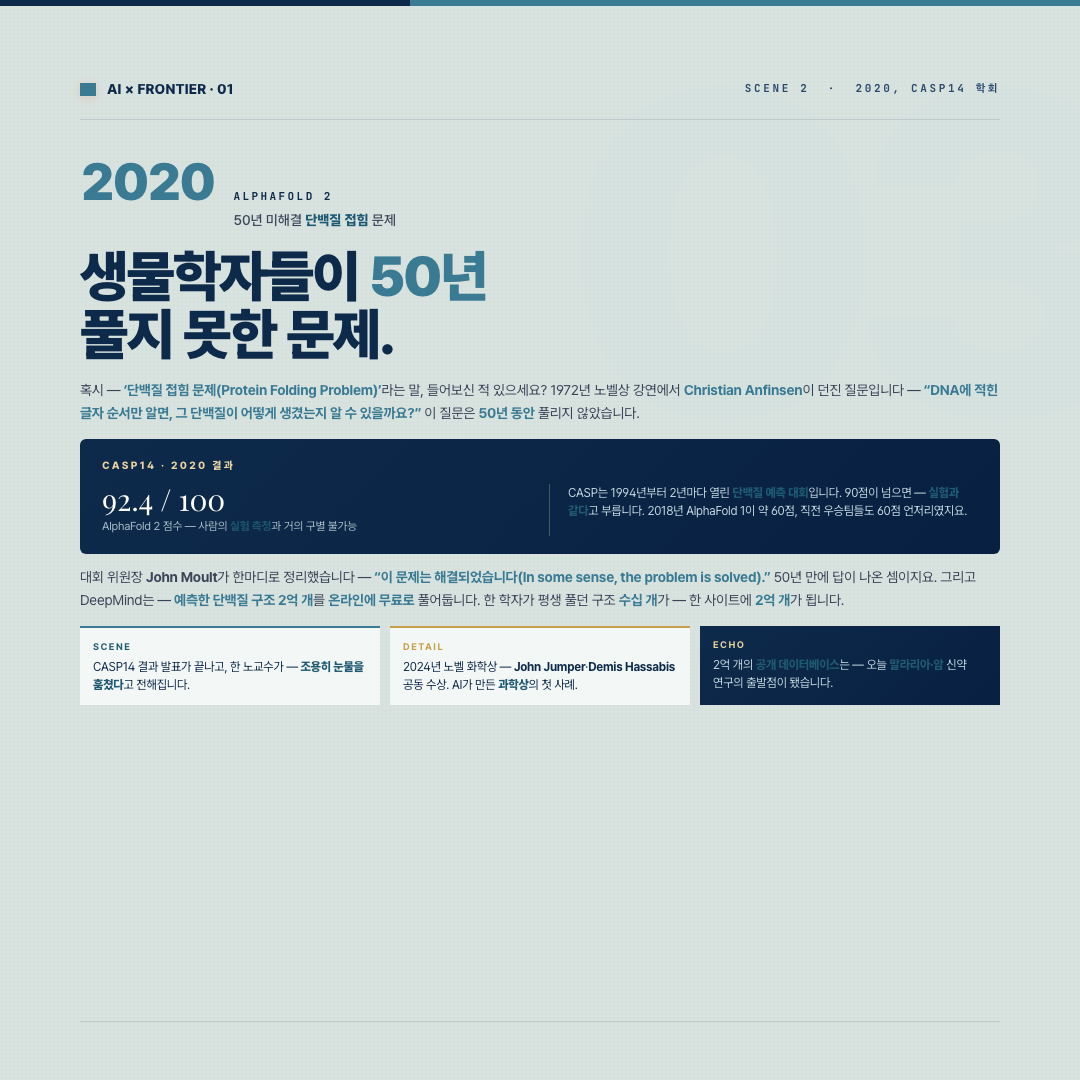
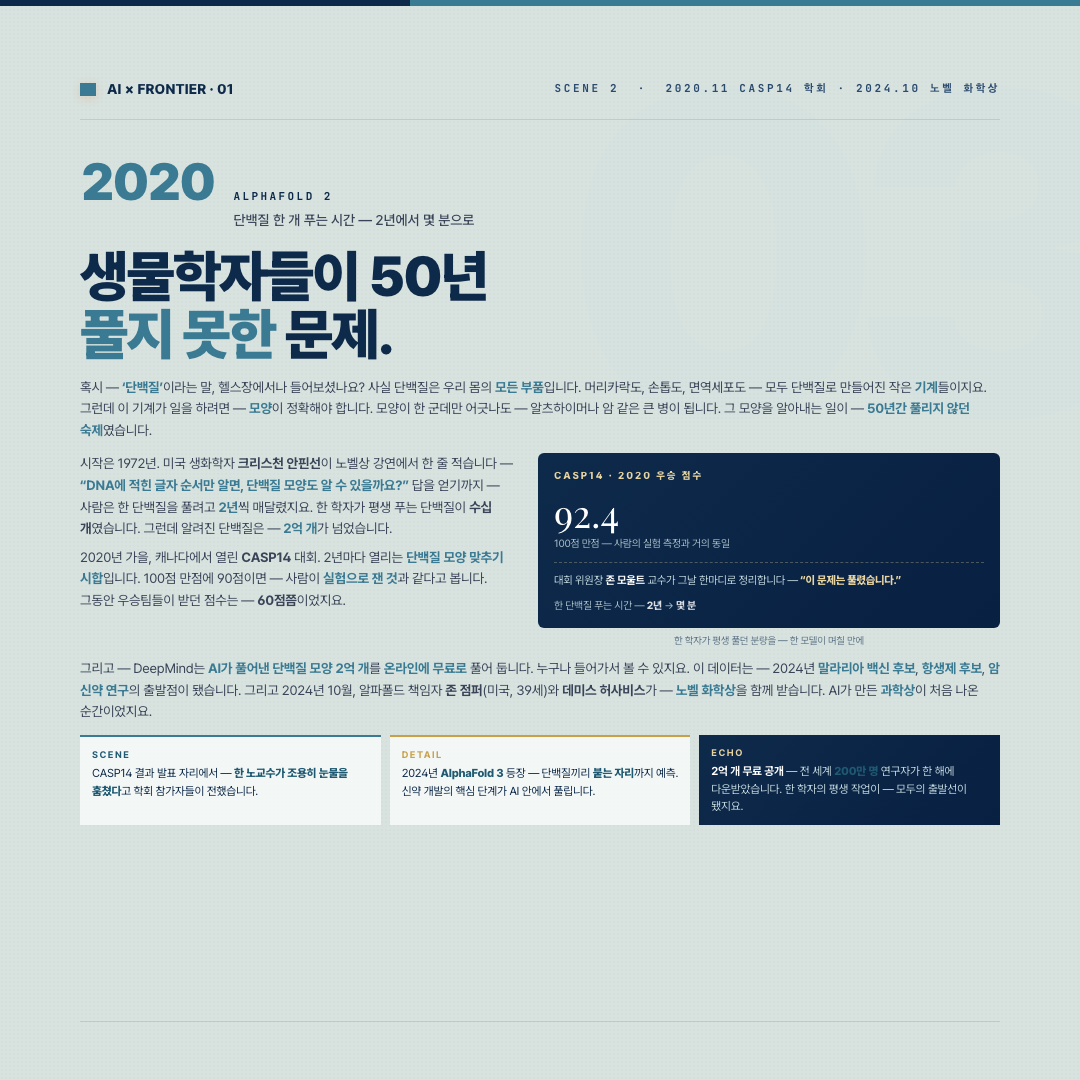
feat(book III · 01): 본문 4개 카드 자세하게 + 누구나 알기 쉽게 재작성
02 알파고 37수 — 5번기 무대(서울 광화문, 100만 달러, 2억 시청), 마이클
   레드몬드 9단의 첫 평 ('실수네요'), 알파고 자체 평가 1만분의 1, 데미스
   허사비스 배경(체스 영재 → 신경과학 박사), 이세돌 78수 4국 승리,
   2019 은퇴 인터뷰까지

03 AlphaFold — '단백질 = 우리 몸의 작은 기계' 비유로 도입, 한 단백질
   푸는 시간 2년 → 몇 분, 안핀선 1972 노벨강연 인용, CASP14 92.4점,
   존 모울트 위원장의 '풀렸습니다' 인용, 2024 노벨 화학상,
   2억 개 무료 공개, AlphaFold 3까지

04 AlphaTensor — 구구단 비유로 행렬 곱셈 풀이, 슈트라센 1969(64→49),
   2022 47번 신기록, '왜 중요한가' 박스(ChatGPT 단어 만들 때마다 수십억
   회), FunSearch 2024까지

05 Refik Anadol — 작가 배경(터키 출신 1985년생 LA), 'Unsupervised'
   8m 벽 1년 전시, 미셸 쿠오 큐레이터 인용, 13만 8천 점 = 140년 미술사,
   100만 관람·200만 달러 판매, 2024 자연사박물관 후속작

전 카드 잔여 *...* 마크다운 → <em> 변환 완료, PIL 검증 통과.

diff --git a/atlas-1-cards-creativity/04-alphatensor.html b/atlas-1-cards-creativity/04-alphatensor.html
@@ -11,53 +11,59 @@
   <div class="stage">
     <div class="header">
       <div class="brandmark"><span class="tri" style="background:var(--brand) !important;"></span> AI &times; FRONTIER &middot; 01</div>
-      <div class="chaptertag">SCENE 3 &nbsp;&middot;&nbsp; 2022.10, Nature 표지</div>
+      <div class="chaptertag">SCENE 3 &nbsp;&middot;&nbsp; 2022.10, Nature 표지 논문</div>
     </div>
     <div class="era">
       <span class="year">2022</span>
-      <span class="label"><b>AlphaTensor</b><span class="sub">DeepMind가 <em>수학</em>을 풀다</span></span>
+      <span class="label"><b>AlphaTensor</b><span class="sub">DeepMind가 수학을 푼 날 — 게임처럼</span></span>
     </div>
-    <h1 class="title sm">기계가 <em>새 곱셈법</em>을<br />발견했습니다.</h1>
+    <h1 class="title sm">기계가 발견한<br /><em>새 곱셈법</em>.</h1>
 
-    <p class="body-sm" style="font-size:14px; line-height:1.65; margin-top:14px;">
-      혹시 — <em>수학에 ‘새 정리’가 등장</em>하는 일이 <em>얼마나 드문지</em> 짐작이 가시나요? 그것도 <em>AI가 발견</em>했다면? 2022년 10월 <em>Nature</em> 표지 논문이 그것입니다. DeepMind의 <b>AlphaTensor</b>가 — <em>50년간 인간이 못 찾던</em> 새 행렬 곱셈 알고리즘을 <em>스스로</em> 찾아냈습니다.
+    <p class="body-sm" style="font-size:13.5px; line-height:1.6; margin-top:12px;">
+      혹시 — 학교에서 <em>구구단</em> 외운 거 기억나세요? 2 × 3 = 6, 한 번의 계산. 그런데 <em>행렬 곱셈</em>은 좀 다릅니다. 숫자 묶음 두 개를 곱하면 — 작은 곱셈이 <em>여러 번</em> 필요합니다. 4 × 4 묶음을 곱하려면 보통 <b>64번</b>의 곱셈이 듭니다. 그런데 1969년 — 독일 수학자 <b>폴커 슈트라센</b>이 영리한 방법으로 <em>49번</em>까지 줄였습니다. 그 뒤 <em>50년 동안</em> — 더 줄이는 사람은 <em>없었지요</em>.
     </p>
 
-    <div style="margin-top:14px; display:grid; grid-template-columns:1.2fr 1fr; gap:18px;">
+    <div class="split" style="grid-template-columns:1.2fr 1fr; gap:18px; margin-top:12px;">
       <div>
-        <p class="body-sm" style="font-size:14px; line-height:1.65;">바탕은 1969년 <b>Strassen 알고리즘</b>입니다. 4×4 행렬 곱셈을 <em>49번의 곱셈</em>으로 줄인 한 수학자의 발견. 그 뒤 <em>50년 동안</em> — 더 줄이는 방법은 <em>나오지 않았지요</em>.</p>
-        <p class="body-sm" style="font-size:14px; line-height:1.65; margin-top:8px;">AlphaTensor는 <em>수억 개의 가능성</em>을 탐색해 — <em>47번</em>으로 줄였습니다. 그것도 <em>복수의 새 알고리즘</em>을 한꺼번에. 한 <em>14살의 학생</em>이 <em>반세기 만에</em> 새 길을 보여 준 셈입니다.</p>
+        <p class="body-sm" style="font-size:13.5px; line-height:1.6;">2022년 10월, <em>Nature</em> 표지 논문이 등장합니다. DeepMind의 <b>AlphaTensor</b>가 — <em>50년간 사람이 못 찾던</em> 새 알고리즘을 스스로 찾아냈지요. 그것도 <em>복수의 새 알고리즘</em>을 한꺼번에. 5×5 행렬, 4×5 행렬 등 다양한 크기에서 — 사람이 찾던 기록을 깼습니다. 4×4 행렬은 <em>49번 → 47번</em>으로 줄였고요.</p>
+        <p class="body-sm" style="font-size:13.5px; line-height:1.6; margin-top:7px;">방법은 — 알파고와 <em>똑같은 아이디어</em>였습니다. 행렬 곱셈을 <em>게임처럼</em> 다뤄, 모든 가능한 수를 <em>수억 번</em> 탐색해 본 거지요. 알파고가 바둑판에서 한 일을 — 이번엔 <em>수학식 위</em>에서 한 셈입니다.</p>
+        <div style="margin-top:8px; padding:9px 12px; background:rgba(58,122,146,0.10); border-left:3px solid var(--brand);">
+          <div style="font-size:9.5px; letter-spacing:1.5px; color:var(--brand-deep); font-weight:700;">왜 중요한가</div>
+          <div style="font-size:11.5px; line-height:1.5; color:var(--ink-soft);">행렬 곱셈은 — <em>모든 신경망 학습의 기본 연산</em>입니다. ChatGPT가 한 단어 만들 때마다 — 행렬 곱셈을 <em>수십억 번</em> 합니다. 49번에서 47번으로 줄어든 그 <b>2번</b>이 — 전 세계 GPU의 전기·시간을 <em>눈에 띄게</em> 절약합니다.</div>
+        </div>
       </div>
-      <div style="padding:18px 20px; background:linear-gradient(135deg, var(--navy), var(--navy-deep)); color:var(--brand-soft); border-radius:6px;">
-        <div style="font-size:10.5px; letter-spacing:0.2em; color:var(--accent-gold-soft); font-weight:800;">곱셈 횟수</div>
-        <div style="margin-top:14px;">
-          <div style="font-family:'Playfair Display', serif; font-size:18px; color:#fff;">1969 Strassen</div>
-          <div style="font-family:'JetBrains Mono', monospace; font-size:30px; font-weight:900; color:#fff;">49</div>
+      <div>
+        <div style="padding:14px 16px; background:linear-gradient(135deg, var(--navy), var(--navy-deep)); color:var(--brand-soft); border-radius:6px;">
+          <div style="font-size:10px; letter-spacing:0.2em; color:var(--accent-gold-soft); font-weight:800;">곱셈 횟수 — 4×4 행렬</div>
+          <div style="margin-top:12px;">
+            <div style="font-family:'Playfair Display', serif; font-size:15px; color:#fff; opacity:0.9;">기본 학교 방식</div>
+            <div style="font-family:'JetBrains Mono', monospace; font-size:24px; font-weight:900; color:#fff; opacity:0.7;">64</div>
+          </div>
+          <div style="margin-top:10px;">
+            <div style="font-family:'Playfair Display', serif; font-size:15px; color:#fff;">1969 슈트라센</div>
+            <div style="font-family:'JetBrains Mono', monospace; font-size:28px; font-weight:900; color:#fff;">49</div>
+          </div>
+          <div style="margin-top:10px; padding-top:10px; border-top:1px dashed rgba(232,212,160,0.3);">
+            <div style="font-family:'Playfair Display', serif; font-size:15px; color:var(--accent-gold-soft); font-style:italic;">2022 AlphaTensor</div>
+            <div style="font-family:'JetBrains Mono', monospace; font-size:34px; font-weight:900; color:var(--accent-gold-soft);">47</div>
+          </div>
+          <div style="margin-top:8px; font-size:10.5px; opacity:0.85;">— 50년 만의 신기록</div>
         </div>
-        <div style="margin-top:10px; padding-top:10px; border-top:1px dashed rgba(232,212,160,0.3);">
-          <div style="font-family:'Playfair Display', serif; font-size:18px; color:var(--accent-gold-soft); font-style:italic;">2022 AlphaTensor</div>
-          <div style="font-family:'JetBrains Mono', monospace; font-size:36px; font-weight:900; color:var(--accent-gold-soft);">47</div>
-        </div>
-        <div style="margin-top:10px; font-size:11.5px; opacity:0.85;">— 50년 만의 신기록</div>
       </div>
     </div>
 
-    <p class="body-sm" style="font-size:14px; line-height:1.65; margin-top:12px; color:var(--ink-soft);">
-      <em>2</em>가 줄어든 게 <em>별것 아닌 듯</em>하지요? 그런데 행렬 곱셈은 <em>모든 신경망의 기본 연산</em>입니다. <em>2 줄임</em>이 <em>수십억 회 반복</em>되면 — 학습 비용·전력이 <em>눈에 띄게</em> 절감됩니다. AI가 <em>자기를 더 빠르게 만드는 방법</em>을 — <em>스스로 찾은</em> 셈이지요.
-    </p>
-
-    <div style="margin-top:14px; display:grid; grid-template-columns:repeat(3, 1fr); gap:10px;">
-      <div style="padding:11px 13px; background:rgba(255,255,255,0.7); border-top:2px solid var(--brand);">
+    <div style="margin-top:12px; display:grid; grid-template-columns:repeat(3, 1fr); gap:9px;">
+      <div style="padding:10px 12px; background:rgba(255,255,255,0.7); border-top:2px solid var(--brand);">
         <div style="font-size:9.5px; letter-spacing:1.5px; color:var(--brand-deep); font-weight:700;">SCENE</div>
-        <div style="font-size:12px; line-height:1.5; margin-top:4px; color:var(--ink);">방법은 <b>강화학습</b>. 행렬 곱셈을 <em>게임처럼</em> 다뤄 — 알파고와 <em>같은 아이디어</em>에서 출발했습니다.</div>
+        <div style="font-size:11.5px; line-height:1.5; margin-top:3px; color:var(--ink);">슈트라센 본인은 1936년생, 독일. <em>“내 정리는 50년이면 깨질 줄 알았다”</em>는 그의 옛 인터뷰가 — 그대로 들어맞은 셈입니다.</div>
       </div>
-      <div style="padding:11px 13px; background:rgba(255,255,255,0.7); border-top:2px solid var(--accent-gold);">
+      <div style="padding:10px 12px; background:rgba(255,255,255,0.7); border-top:2px solid var(--accent-gold);">
         <div style="font-size:9.5px; letter-spacing:1.5px; color:var(--accent-gold); font-weight:700;">DETAIL</div>
-        <div style="font-size:12px; line-height:1.5; margin-top:4px; color:var(--ink);">5×5 곱셈은 <b>76 → 76 그대로</b>. 모든 크기에서 줄이지는 못했습니다 — <em>완전한 정복</em>은 아니었지요.</div>
+        <div style="font-size:11.5px; line-height:1.5; margin-top:3px; color:var(--ink);">5×5 행렬은 <b>76번 → 76번</b> 그대로. <em>모든 크기를 다 줄이지는 못했습니다</em> — 완전한 정복은 아니었지요.</div>
       </div>
-      <div style="padding:11px 13px; background:linear-gradient(135deg, var(--navy), var(--navy-deep)); color:var(--brand-soft);">
+      <div style="padding:10px 12px; background:linear-gradient(135deg, var(--navy), var(--navy-deep)); color:var(--brand-soft);">
         <div style="font-size:9.5px; letter-spacing:1.5px; color:var(--accent-gold-soft); font-weight:700;">ECHO</div>
-        <div style="font-size:12px; line-height:1.5; margin-top:4px;">2024년 — DeepMind <b style="color:#fff;">FunSearch</b>가 <em>수학자도 못 풀던</em> 조합론 문제까지 풉니다.</div>
+        <div style="font-size:11.5px; line-height:1.5; margin-top:3px;">2024년 — DeepMind <b style="color:#fff;">FunSearch</b>가 <em>수학자도 못 풀던</em> 조합론 문제까지 풉니다. AI가 <em>수학 자체</em>를 푸는 시대로.</div>
       </div>
     </div>
 

diff --git a/atlas-1-cards-creativity/03-alphafold.html b/atlas-1-cards-creativity/03-alphafold.html
@@ -1,7 +1,7 @@
 <!DOCTYPE html>
 <html lang="ko"><head><meta charset="UTF-8" />
 <meta name="color-scheme" content="light only" />
-<title>03 · AlphaFold — 50년 미해결 문제의 답</title>
+<title>03 · AlphaFold — 50년 미해결 단백질 문제의 답</title>
 <link rel="stylesheet" href="https://fonts.googleapis.com/css2?family=JetBrains+Mono:wght@400;500;700&family=Playfair+Display:ital,wght@0,400;0,700;1,400&family=Noto+Serif+KR:wght@400;700;900&family=Noto+Sans+KR:wght@300;400;500;700;900&display=swap" />
 <link rel="stylesheet" href="../style.css" />
 <link rel="stylesheet" href="../atlas.css" /></head>
@@ -11,47 +11,53 @@
   <div class="stage">
     <div class="header">
       <div class="brandmark"><span class="tri" style="background:var(--brand) !important;"></span> AI &times; FRONTIER &middot; 01</div>
-      <div class="chaptertag">SCENE 2 &nbsp;&middot;&nbsp; 2020, CASP14 학회</div>
+      <div class="chaptertag">SCENE 2 &nbsp;&middot;&nbsp; 2020.11 CASP14 학회 · 2024.10 노벨 화학상</div>
     </div>
     <div class="era">
       <span class="year">2020</span>
-      <span class="label"><b>AlphaFold 2</b><span class="sub">50년 미해결 <em>단백질 접힘</em> 문제</span></span>
+      <span class="label"><b>AlphaFold 2</b><span class="sub">단백질 한 개 푸는 시간 — 2년에서 몇 분으로</span></span>
     </div>
-    <h1 class="title sm">생물학자들이 <em>50년</em><br />풀지 못한 문제.</h1>
+    <h1 class="title sm">생물학자들이 50년<br /><em>풀지 못한</em> 문제.</h1>
 
-    <p class="body-sm" style="font-size:14px; line-height:1.65; margin-top:14px;">
-      혹시 — <em>‘단백질 접힘 문제(Protein Folding Problem)’</em>라는 말, 들어보신 적 있으세요? 1972년 노벨상 강연에서 <em>Christian Anfinsen</em>이 던진 질문입니다 — <em>“DNA에 적힌 글자 순서만 알면, 그 단백질이 어떻게 생겼는지 알 수 있을까요?”</em> 이 질문은 <em>50년 동안</em> 풀리지 않았습니다.
+    <p class="body-sm" style="font-size:13.5px; line-height:1.6; margin-top:12px;">
+      혹시 — <em>‘단백질’</em>이라는 말, 헬스장에서나 들어보셨나요? 사실 단백질은 우리 몸의 <em>모든 부품</em>입니다. 머리카락도, 손톱도, 면역세포도 — 모두 단백질로 만들어진 작은 <em>기계</em>들이지요. 그런데 이 기계가 일을 하려면 — <em>모양</em>이 정확해야 합니다. 모양이 한 군데만 어긋나도 — 알츠하이머나 암 같은 큰 병이 됩니다. 그 모양을 알아내는 일이 — <em>50년간 풀리지 않던 숙제</em>였습니다.
     </p>
 
-    <div style="margin-top:14px; padding:18px 22px; background:linear-gradient(135deg, var(--navy), var(--navy-deep)); color:var(--brand-soft); border-radius:6px;">
-      <div style="font-size:10.5px; letter-spacing:0.22em; color:var(--accent-gold-soft); font-weight:800;">CASP14 &middot; 2020 결과</div>
-      <div style="margin-top:10px; display:grid; grid-template-columns:1fr 1fr; gap:18px; font-size:13.5px; line-height:1.55;">
-        <div>
-          <div style="font-family:'Playfair Display', serif; font-style:italic; font-size:30px; color:#fff; line-height:1;">92.4 / 100</div>
-          <div style="font-size:11.5px; opacity:0.85; margin-top:4px;">AlphaFold 2 점수 — 사람의 <em>실험 측정</em>과 거의 구별 불가능</div>
+    <div class="split" style="grid-template-columns:1fr 1.05fr; gap:18px; margin-top:12px;">
+      <div class="left">
+        <p class="body-sm" style="font-size:13.5px; line-height:1.6;">시작은 1972년. 미국 생화학자 <b>크리스천 안핀선</b>이 노벨상 강연에서 한 줄 적습니다 — <em>“DNA에 적힌 글자 순서만 알면, 단백질 모양도 알 수 있을까요?”</em> 답을 얻기까지 — 사람은 한 단백질을 풀려고 <em>2년</em>씩 매달렸지요. 한 학자가 평생 푸는 단백질이 <b>수십 개</b>였습니다. 그런데 알려진 단백질은 — <em>2억 개</em>가 넘었습니다.</p>
+        <p class="body-sm" style="font-size:13.5px; line-height:1.6; margin-top:7px;">2020년 가을, 캐나다에서 열린 <b>CASP14</b> 대회. 2년마다 열리는 <em>단백질 모양 맞추기 시합</em>입니다. 100점 만점에 90점이면 — 사람이 <em>실험으로 잰 것</em>과 같다고 봅니다. 그동안 우승팀들이 받던 점수는 — <b>60점쯤</b>이었지요.</p>
+      </div>
+      <div class="right">
+        <div style="padding:14px 16px; background:linear-gradient(135deg, var(--navy), var(--navy-deep)); color:var(--brand-soft); border-radius:6px;">
+          <div style="font-size:10px; letter-spacing:0.2em; color:var(--accent-gold-soft); font-weight:800;">CASP14 · 2020 우승 점수</div>
+          <div style="margin-top:10px; font-family:'Playfair Display', serif; font-style:italic; font-size:38px; color:#fff; line-height:1;">92.4</div>
+          <div style="font-size:10.5px; opacity:0.85; margin-top:3px;">100점 만점 — 사람의 실험 측정과 거의 동일</div>
+          <div style="margin-top:10px; padding-top:10px; border-top:1px dashed rgba(232,212,160,0.3);">
+            <div style="font-size:11px; line-height:1.5;">대회 위원장 <b style="color:#fff;">존 모울트</b> 교수가 그날 한마디로 정리합니다 — <em style="color:var(--accent-gold-soft);">“이 문제는 풀렸습니다.”</em></div>
+          </div>
+          <div style="margin-top:8px; font-size:10.5px; opacity:0.85;">한 단백질 푸는 시간 — <em style="color:#fff;">2년</em> → <b style="color:#fff;">몇 분</b></div>
         </div>
-        <div style="border-left:1px solid rgba(232,212,160,0.3); padding-left:18px;">
-          <div style="font-size:12px;">CASP는 1994년부터 2년마다 열린 <em>단백질 예측 대회</em>입니다. 90점이 넘으면 — <em>실험과 같다</em>고 부릅니다. 2018년 AlphaFold 1이 약 60점, 직전 우승팀들도 60점 언저리였지요.</div>
-        </div>
+        <p style="font-size:10px; margin-top:4px; opacity:0.6; text-align:center;">한 학자가 평생 풀던 분량을 — 한 모델이 며칠 만에</p>
       </div>
     </div>
 
-    <p class="body-sm" style="font-size:14px; line-height:1.65; margin-top:12px;">
-      대회 위원장 <b>John Moult</b>가 한마디로 정리했습니다 — <em>“이 문제는 해결되었습니다(In some sense, the problem is solved).”</em> 50년 만에 답이 나온 셈이지요. 그리고 DeepMind는 — <em>예측한 단백질 구조 2억 개</em>를 <em>온라인에 무료로</em> 풀어둡니다. 한 학자가 평생 풀던 구조 <em>수십 개</em>가 — 한 사이트에 <em>2억 개</em>가 됩니다.
+    <p class="body-sm" style="font-size:13.5px; line-height:1.6; margin-top:10px;">
+      그리고 — DeepMind는 <em>AI가 풀어낸 단백질 모양 2억 개</em>를 <em>온라인에 무료로</em> 풀어 둡니다. 누구나 들어가서 볼 수 있지요. 이 데이터는 — 2024년 <em>말라리아 백신 후보</em>, <em>항생제 후보</em>, <em>암 신약 연구</em>의 출발점이 됐습니다. 그리고 2024년 10월, 알파폴드 책임자 <b>존 점퍼</b>(미국, 39세)와 <b>데미스 허사비스</b>가 — <em>노벨 화학상</em>을 함께 받습니다. AI가 만든 <em>과학상</em>이 처음 나온 순간이었지요.
     </p>
 
-    <div style="margin-top:14px; display:grid; grid-template-columns:repeat(3, 1fr); gap:10px;">
-      <div style="padding:11px 13px; background:rgba(255,255,255,0.7); border-top:2px solid var(--brand);">
+    <div style="margin-top:12px; display:grid; grid-template-columns:repeat(3, 1fr); gap:9px;">
+      <div style="padding:10px 12px; background:rgba(255,255,255,0.7); border-top:2px solid var(--brand);">
         <div style="font-size:9.5px; letter-spacing:1.5px; color:var(--brand-deep); font-weight:700;">SCENE</div>
-        <div style="font-size:12px; line-height:1.5; margin-top:4px; color:var(--ink);">CASP14 결과 발표가 끝나고, 한 노교수가 — <em>조용히 눈물을 훔쳤다</em>고 전해집니다.</div>
+        <div style="font-size:11.5px; line-height:1.5; margin-top:3px; color:var(--ink);">CASP14 결과 발표 자리에서 — <em>한 노교수가 조용히 눈물을 훔쳤다</em>고 학회 참가자들이 전했습니다.</div>
       </div>
-      <div style="padding:11px 13px; background:rgba(255,255,255,0.7); border-top:2px solid var(--accent-gold);">
+      <div style="padding:10px 12px; background:rgba(255,255,255,0.7); border-top:2px solid var(--accent-gold);">
         <div style="font-size:9.5px; letter-spacing:1.5px; color:var(--accent-gold); font-weight:700;">DETAIL</div>
-        <div style="font-size:12px; line-height:1.5; margin-top:4px; color:var(--ink);">2024년 노벨 화학상 — <b>John Jumper</b>·<b>Demis Hassabis</b> 공동 수상. AI가 만든 <em>과학상</em>의 첫 사례.</div>
+        <div style="font-size:11.5px; line-height:1.5; margin-top:3px; color:var(--ink);">2024년 <em>AlphaFold 3</em> 등장 — 단백질끼리 <em>붙는 자리</em>까지 예측. 신약 개발의 핵심 단계가 AI 안에서 풀립니다.</div>
       </div>
-      <div style="padding:11px 13px; background:linear-gradient(135deg, var(--navy), var(--navy-deep)); color:var(--brand-soft);">
+      <div style="padding:10px 12px; background:linear-gradient(135deg, var(--navy), var(--navy-deep)); color:var(--brand-soft);">
         <div style="font-size:9.5px; letter-spacing:1.5px; color:var(--accent-gold-soft); font-weight:700;">ECHO</div>
-        <div style="font-size:12px; line-height:1.5; margin-top:4px;">2억 개의 <em>공개 데이터베이스</em>는 — 오늘 <em>말라리아·암</em> 신약 연구의 출발점이 됐습니다.</div>
+        <div style="font-size:11.5px; line-height:1.5; margin-top:3px;"><b style="color:#fff;">2억 개 무료 공개</b> — 전 세계 <em>200만 명</em> 연구자가 한 해에 다운받았습니다. 한 학자의 평생 작업이 — 모두의 출발선이 됐지요.</div>
       </div>
     </div>
 

diff --git a/atlas-1-cards-creativity/02-alphago.html b/atlas-1-cards-creativity/02-alphago.html
@@ -1,7 +1,7 @@
 <!DOCTYPE html>
 <html lang="ko"><head><meta charset="UTF-8" />
 <meta name="color-scheme" content="light only" />
-<title>02 · 알파고 37수 — 사람이 못 보던 자리</title>
+<title>02 · 알파고 37수 — 사람이 만 판에 한 번 둘 자리</title>
 <link rel="stylesheet" href="https://fonts.googleapis.com/css2?family=JetBrains+Mono:wght@400;500;700&family=Playfair+Display:ital,wght@0,400;0,700;1,400&family=Noto+Serif+KR:wght@400;700;900&family=Noto+Sans+KR:wght@300;400;500;700;900&display=swap" />
 <link rel="stylesheet" href="../style.css" />
 <link rel="stylesheet" href="../atlas.css" /></head>
@@ -11,45 +11,49 @@
   <div class="stage">
     <div class="header">
       <div class="brandmark"><span class="tri" style="background:var(--brand) !important;"></span> AI &times; FRONTIER &middot; 01</div>
-      <div class="chaptertag">SCENE 1 &nbsp;&middot;&nbsp; 2016.3.10, 서울 포시즌스 호텔</div>
+      <div class="chaptertag">SCENE 1 &nbsp;&middot;&nbsp; 2016.3.10, 서울 광화문 포시즌스 호텔</div>
     </div>
     <div class="era">
       <span class="year">2016</span>
-      <span class="label"><b>알파고 37수</b><span class="sub">바둑의 <em>신</em>이 처음 본 자리</span></span>
+      <span class="label"><b>알파고 37수</b><span class="sub">2국 · 오후 4시 반 · 다섯 번째 줄에 놓인 흑돌 하나</span></span>
     </div>
-    <h1 class="title sm">사람이 <em>만 판에 한 번</em><br />놓을까 말까 한 자리.</h1>
+    <h1 class="title sm">사람이 만 판에 한 번 놓을<br /><em>한 수</em>가 등장합니다.</h1>
 
-    <div class="split" style="grid-template-columns:1fr 1fr; gap:22px; margin-top:14px;">
+    <div class="split" style="grid-template-columns:1fr 1fr; gap:20px; margin-top:12px;">
       <div class="left">
-        <p class="body-sm" style="font-size:14px; line-height:1.65;">혹시 — <em>알파고와 이세돌의 5번기</em>에서 가장 <em>기이했던 한 수</em>를 기억하세요? 2016년 3월 10일, 2국 후반. 알파고가 <em>흑 5선</em>에 한 수를 놓습니다. 해설진은 처음에 — <em>“실수네요”</em>라고 했지요. 프로 기사들은 <em>“만 판에 한 번 나올까 말까 한 자리”</em>라고 했습니다.</p>
-        <p class="body-sm" style="font-size:14px; line-height:1.65; margin-top:8px;">그런데 — 그 한 수가 <em>판세를 결정짓는 자리</em>로 드러납니다. 이 한 수에 사람들은 한 가지 이름을 붙입니다 — <b>‘37수’</b>. AI가 <em>사람이 본 적 없는</em> 풍경을 처음 보여 준 순간이었지요.</p>
-        <div style="margin-top:10px; padding:9px 12px; background:rgba(58,122,146,0.10); border-left:3px solid var(--brand);">
-          <div style="font-size:9.5px; letter-spacing:1.5px; color:var(--brand-deep); font-weight:700;">DeepMind 발표</div>
-          <div style="font-size:12px; line-height:1.5; color:var(--ink-soft);">DeepMind가 이 한 수의 <em>예상 확률</em>을 <b>1만분의 1</b>이라고 적었습니다. ‘인간 기보 학습’ 단계가 <em>예측하지 못한</em> 자리.</div>
+        <p class="body-sm" style="font-size:13.5px; line-height:1.6;">혹시 — <em>알파고와 이세돌의 5번기</em>에서 가장 <em>이상했던 한 수</em>를 기억하세요? 2016년 3월 10일 오후, 서울 광화문 포시즌스 호텔. 5판 중 두 번째 대국이 한창이었습니다. 우승 상금은 <b>100만 달러(약 12억 원)</b>, 전 세계 시청자는 <em>2억 명</em>. 그날 알파고가 둔 <b>37번째 수</b>가 — 바둑 역사에 한 줄로 박힙니다.</p>
+        <p class="body-sm" style="font-size:13.5px; line-height:1.6; margin-top:7px;">자리는 <em>다섯 번째 줄</em>의 흑돌 하나. 해설진 <b>마이클 레드몬드 9단</b>이 처음 본 순간 — <em>“실수네요”</em>라고 했지요. 보통 <em>아마추어 1단도 잘 두지 않는 자리</em>였거든요. 그런데 게임이 끝나갈 무렵 — 그 한 수가 <em>판 전체를 지배하는 자리</em>가 되어 있었습니다.</p>
+        <div style="margin-top:8px; padding:8px 11px; background:rgba(58,122,146,0.10); border-left:3px solid var(--brand);">
+          <div style="font-size:9.5px; letter-spacing:1.5px; color:var(--brand-deep); font-weight:700;">알파고 자체 평가</div>
+          <div style="font-size:11.5px; line-height:1.5; color:var(--ink-soft);">알파고는 <em>“사람 프로 기사가 이 자리에 둘 확률은 만 분의 1”</em>이라고 자신의 점수표에 적어 놓았습니다. <em>스스로</em>가 인간이라면 안 둘 자리라고 본 셈입니다.</div>
         </div>
       </div>
       <div class="right">
-        <img src="../images/lee-sedol.jpg" style="width:100%; height:280px; object-fit:cover; object-position:center top; border-radius:6px; filter:saturate(0.85);" alt="이세돌 9단" />
-        <p style="font-size:10px; margin-top:4px; opacity:0.6; text-align:center;">이세돌 9단 · 2016 5번기</p>
+        <img src="../images/lee-sedol.jpg" style="width:100%; height:240px; object-fit:cover; object-position:center top; border-radius:6px; filter:saturate(0.85);" alt="이세돌 9단" />
+        <p style="font-size:10px; margin-top:3px; opacity:0.6; text-align:center;">이세돌 9단 · 2016 5번기 · 당시 33세</p>
+        <div style="margin-top:8px; padding:9px 11px; background:linear-gradient(135deg, var(--navy), var(--navy-deep)); color:var(--brand-soft); border-radius:4px;">
+          <div style="font-size:9.5px; letter-spacing:1.5px; color:var(--accent-gold-soft); font-weight:700;">이세돌 — 4국 후 인터뷰</div>
+          <div style="font-size:11.5px; line-height:1.45; margin-top:3px; color:#fff;">“오늘은 <em>이세돌</em>이 알파고를 이긴 게 아니라, <em style="color:var(--accent-gold-soft);">사람</em>이 이긴 겁니다.”</div>
+        </div>
       </div>
     </div>
 
-    <p class="body-sm" style="font-size:14px; line-height:1.6; margin-top:12px; color:var(--ink-soft);">
-      그러나 <em>그 한 수</em>가 등장하기까지 — 데미스 허사비스가 던진 <em>“바둑은 풀 수 있는 게임인가”</em>라는 질문이 있었고, 인간 기보 16만 판이 있었으며, 마지막엔 <b>이세돌</b>이라는 무대 위 사람이 있었습니다. <em>AI가 새 길을 보여 준 자리</em>에는 — <em>그것을 알아본 사람</em>이 함께 있었지요.
+    <p class="body-sm" style="font-size:13.5px; line-height:1.6; margin-top:10px;">
+      이 한 수가 등장하기까지 — 한 사람의 <em>큰 질문</em>이 있었습니다. 알파고를 만든 <b>데미스 허사비스</b>(영국, 당시 39세)는 <em>어릴 때 체스 영재</em>였고, 신경과학 박사이자 게임 디자이너이기도 했지요. 그가 던진 질문은 단순했습니다 — <em>“바둑은 정말 풀 수 없는 게임일까?”</em> 그 질문이 — 이세돌이라는 <em>인간 챔피언</em>과 만나는 무대를 만들었습니다.
     </p>
 
-    <div style="margin-top:16px; display:grid; grid-template-columns:repeat(3, 1fr); gap:10px;">
-      <div style="padding:11px 13px; background:rgba(255,255,255,0.7); border-top:2px solid var(--brand);">
+    <div style="margin-top:12px; display:grid; grid-template-columns:repeat(3, 1fr); gap:9px;">
+      <div style="padding:10px 12px; background:rgba(255,255,255,0.7); border-top:2px solid var(--brand);">
         <div style="font-size:9.5px; letter-spacing:1.5px; color:var(--brand-deep); font-weight:700;">SCENE</div>
-        <div style="font-size:12px; line-height:1.5; margin-top:4px; color:var(--ink);">알파고는 <b>5국 중 4국</b>을 가져갑니다. 그러나 <em>제4국</em>은 — 이세돌이 가져갔지요.</div>
+        <div style="font-size:11.5px; line-height:1.5; margin-top:3px; color:var(--ink);">최종 결과 — 알파고 <b>4승 1패</b>. 이세돌이 가져간 한 판은 <em>4국</em>이었습니다 (그의 <b>78수</b>, 일명 <em>‘신의 한 수’</em>).</div>
       </div>
-      <div style="padding:11px 13px; background:rgba(255,255,255,0.7); border-top:2px solid var(--accent-gold);">
+      <div style="padding:10px 12px; background:rgba(255,255,255,0.7); border-top:2px solid var(--accent-gold);">
         <div style="font-size:9.5px; letter-spacing:1.5px; color:var(--accent-gold); font-weight:700;">DETAIL</div>
-        <div style="font-size:12px; line-height:1.5; margin-top:4px; color:var(--ink);">알파고가 학습한 인간 기보 — <b>16만 판</b>. 그 위에 자기 자신과의 <em>수억 판</em> 대국이 더 쌓였습니다.</div>
+        <div style="font-size:11.5px; line-height:1.5; margin-top:3px; color:var(--ink);">알파고가 공부한 인간 기보 — <b>16만 판</b>. 그 위에 <em>자기 자신과의 대국 수억 판</em>이 더 쌓였습니다. 사람이 평생 못 둘 양입니다.</div>
       </div>
-      <div style="padding:11px 13px; background:linear-gradient(135deg, var(--navy), var(--navy-deep)); color:var(--brand-soft);">
+      <div style="padding:10px 12px; background:linear-gradient(135deg, var(--navy), var(--navy-deep)); color:var(--brand-soft);">
         <div style="font-size:9.5px; letter-spacing:1.5px; color:var(--accent-gold-soft); font-weight:700;">ECHO</div>
-        <div style="font-size:12px; line-height:1.5; margin-top:4px;">이세돌의 <b style="color:#fff;">‘신의 한 수(78수)’</b>도 같은 시리즈에서 나왔습니다 — <em>사람도</em> 새 자리를 봅니다.</div>
+        <div style="font-size:11.5px; line-height:1.5; margin-top:3px;">2019년 이세돌이 은퇴 인터뷰에서 한마디 — <em style="color:#fff;">“AI는 이길 수 있는 상대가 아닙니다.”</em> 한 시대가 — 한 인터뷰로 마무리됩니다.</div>
       </div>
     </div>
 

diff --git a/atlas-1-cards-creativity/05-anadol.html b/atlas-1-cards-creativity/05-anadol.html
@@ -11,44 +11,48 @@
   <div class="stage">
     <div class="header">
       <div class="brandmark"><span class="tri" style="background:var(--brand) !important;"></span> AI &times; FRONTIER &middot; 01</div>
-      <div class="chaptertag">SCENE 4 &nbsp;&middot;&nbsp; 2022.11, MoMA · 뉴욕</div>
+      <div class="chaptertag">SCENE 4 &nbsp;&middot;&nbsp; 2022.11.19—2023.10, MoMA · 뉴욕 5번가</div>
     </div>
     <div class="era">
       <span class="year">2022</span>
-      <span class="label"><b>Refik Anadol · Unsupervised</b><span class="sub">미술관에 걸린 <em>AI 회화</em></span></span>
+      <span class="label"><b>Refik Anadol · Unsupervised</b><span class="sub">미술관 8m 벽이 스스로 그림을 짜내는 1년</span></span>
     </div>
-    <h1 class="title sm">미술관 벽이 <em>스스로</em><br />꿈을 꾸기 시작합니다.</h1>
+    <h1 class="title sm">미술관 벽이 스스로<br /><em>꿈</em>을 꾸기 시작합니다.</h1>
 
-    <div class="split" style="grid-template-columns:1fr 1fr; gap:22px; margin-top:14px;">
+    <div class="split" style="grid-template-columns:1fr 1fr; gap:18px; margin-top:12px;">
       <div class="left">
-        <p class="body-sm" style="font-size:14px; line-height:1.65;">혹시 — <em>MoMA(뉴욕 현대미술관) 로비에 </em>AI 그림<em>이 걸린 적이 있다</em>는 거 아세요? 그것도 <em>2022년 11월</em>부터 <em>6개월간</em>. 작품 이름은 <b>Unsupervised</b>. 8m 높이의 LED 벽에서 — <em>한 번도 같은 모습을 보이지 않는</em> 추상화가 펼쳐집니다.</p>
-        <p class="body-sm" style="font-size:14px; line-height:1.65; margin-top:8px;">만든 사람은 터키 출신의 미디어 아티스트 <b>Refik Anadol</b>. 그는 <em>MoMA 소장품 13만 8천 점</em>의 디지털 데이터를 — AI 모델에 학습시킨 뒤, <em>‘만약 이 그림들이 </em>다른 그림<em>을 꿈꾼다면?’</em>이라는 한 질문을 던졌지요.</p>
+        <p class="body-sm" style="font-size:13.5px; line-height:1.6;">혹시 — 뉴욕 <em>MoMA(현대미술관)</em>의 <em>로비</em>에 <em>AI 그림</em>이 한 해 동안 걸려 있었다는 거 아세요? 작품 이름은 <b>Unsupervised(언슈퍼바이즈드)</b>. 8m 높이의 거대한 LED 벽에서 — <em>한순간도 같은 모습을 보이지 않는</em> 추상화가 펼쳐집니다. 영상 한 편이 끝나면 — 다음 영상은 처음부터 다른 그림이지요.</p>
+        <p class="body-sm" style="font-size:13.5px; line-height:1.6; margin-top:7px;">만든 사람은 <b>레픽 아나돌</b>(터키 출신, 1985년생, LA 거주). 그는 <em>MoMA 소장품 13만 8천 점</em>의 디지털 자료를 — AI 모델에 통째로 학습시켰습니다. 모네·피카소·반고흐가 한 그릇 안에 들어간 셈이지요. 그 위에 그가 던진 한 가지 질문은 — <em>“이 그림들이 <em>다른 그림</em>을 꿈꾼다면?”</em>이었습니다.</p>
       </div>
       <div class="right">
         <div style="width:100%; aspect-ratio:1; background:linear-gradient(135deg, #3a7a92 0%, #1f5a72 30%, #0e2a4a 60%, #c8a04a 90%); border-radius:6px; box-shadow:0 8px 24px rgba(14,42,74,0.3); position:relative; overflow:hidden;">
           <div style="position:absolute; inset:0; background:radial-gradient(circle at 30% 30%, rgba(232,212,160,0.4), transparent 50%), radial-gradient(circle at 70% 60%, rgba(58,122,146,0.4), transparent 50%); mix-blend-mode:screen;"></div>
           <div style="position:absolute; bottom:14px; left:14px; right:14px; color:#fff5e1; font-family:'Playfair Display', serif; font-style:italic; font-size:14px;">Unsupervised — Machine Hallucinations</div>
         </div>
-        <p style="font-size:10px; margin-top:4px; opacity:0.6; text-align:center;">데이터 회화 — 한순간도 같지 않은 그림</p>
+        <p style="font-size:10px; margin-top:3px; opacity:0.6; text-align:center;">데이터 회화 — 한순간도 같지 않은 그림</p>
+        <div style="margin-top:8px; padding:9px 11px; background:rgba(58,122,146,0.10); border-left:3px solid var(--brand);">
+          <div style="font-size:9.5px; letter-spacing:1.5px; color:var(--brand-deep); font-weight:700;">현장 디테일</div>
+          <div style="font-size:11.5px; line-height:1.5; color:var(--ink-soft);">미술관 <em>온도·습도·관람객 수</em>가 실시간으로 영상에 반영. 사람이 모이면 그림도 <em>출렁였습니다</em>.</div>
+        </div>
       </div>
     </div>
 
-    <p class="body-sm" style="font-size:14px; line-height:1.65; margin-top:12px;">
-      MoMA 큐레이터 <em>Michelle Kuo</em>가 한마디로 정리합니다 — <em>“기계가 <em>예술의 역사를 새로 보는</em> 한 가지 방법입니다.”</em> 6개월 동안 — <em>백만 명</em>이 그 앞을 지나갔고, 작품은 <em>200만 달러</em>에 팔립니다. 미술관에 <em>AI</em>가 — <em>손님</em>이 아니라 <em>작품</em>으로 걸린 첫 사례 중 하나가 됐지요.
+    <p class="body-sm" style="font-size:13.5px; line-height:1.6; margin-top:10px;">
+      MoMA 큐레이터 <b>미셸 쿠오</b>가 한마디로 정리합니다 — <em>“기계가 미술의 역사를 새로 보는 한 가지 방법입니다.”</em> 1년 동안 — 약 <em>100만 명</em>이 그 앞을 지나갔고, 작품은 <em>200만 달러(약 27억 원)</em>에 팔렸지요. 미술관에 AI가 — <em>관람객</em>이 아니라 <em>작품</em>으로 걸린 첫 사례 중 하나가 됐습니다.
     </p>
 
-    <div style="margin-top:14px; display:grid; grid-template-columns:repeat(3, 1fr); gap:10px;">
-      <div style="padding:11px 13px; background:rgba(255,255,255,0.7); border-top:2px solid var(--brand);">
+    <div style="margin-top:12px; display:grid; grid-template-columns:repeat(3, 1fr); gap:9px;">
+      <div style="padding:10px 12px; background:rgba(255,255,255,0.7); border-top:2px solid var(--brand);">
         <div style="font-size:9.5px; letter-spacing:1.5px; color:var(--brand-deep); font-weight:700;">SCENE</div>
-        <div style="font-size:12px; line-height:1.5; margin-top:4px; color:var(--ink);">화면은 미술관의 <em>온도·습도·관람객 움직임</em>을 실시간으로 받아 <em>반응</em>했습니다.</div>
+        <div style="font-size:11.5px; line-height:1.5; margin-top:3px; color:var(--ink);">아나돌은 <em>“이건 인간 작가의 자리를 빼앗는 게 아니라 새 도구”</em>라고 말했습니다. 붓·카메라·컴퓨터에 — <em>AI</em>가 한 줄 더 들어선 것뿐.</div>
       </div>
-      <div style="padding:11px 13px; background:rgba(255,255,255,0.7); border-top:2px solid var(--accent-gold);">
+      <div style="padding:10px 12px; background:rgba(255,255,255,0.7); border-top:2px solid var(--accent-gold);">
         <div style="font-size:9.5px; letter-spacing:1.5px; color:var(--accent-gold); font-weight:700;">DETAIL</div>
-        <div style="font-size:12px; line-height:1.5; margin-top:4px; color:var(--ink);">학습 데이터 — MoMA의 <b>13만 8천 점</b>. 모네·피카소·반고흐가 같은 그릇 안으로 들어갔지요.</div>
+        <div style="font-size:11.5px; line-height:1.5; margin-top:3px; color:var(--ink);">학습 데이터 — MoMA 디지털 작품 <b>13만 8천 점</b>. 1880년부터 2020년대까지 — <em>140년 미술사가 한 모델 안</em>으로.</div>
       </div>
-      <div style="padding:11px 13px; background:linear-gradient(135deg, var(--navy), var(--navy-deep)); color:var(--brand-soft);">
+      <div style="padding:10px 12px; background:linear-gradient(135deg, var(--navy), var(--navy-deep)); color:var(--brand-soft);">
         <div style="font-size:9.5px; letter-spacing:1.5px; color:var(--accent-gold-soft); font-weight:700;">ECHO</div>
-        <div style="font-size:12px; line-height:1.5; margin-top:4px;">Anadol은 <em>‘이건 인간 작가의 자리가 아니라 새 도구’</em>라고 말했습니다. 붓·카메라·AI — 같은 줄 위.</div>
+        <div style="font-size:11.5px; line-height:1.5; margin-top:3px;">2024년 — 같은 작가의 <b style="color:#fff;">‘Living Archive’</b>가 미국 자연사박물관에 걸렸습니다. <em>AI가 만든 풍경</em>이 미술관 너머로 옮겨가는 중.</div>
       </div>
     </div>
 
